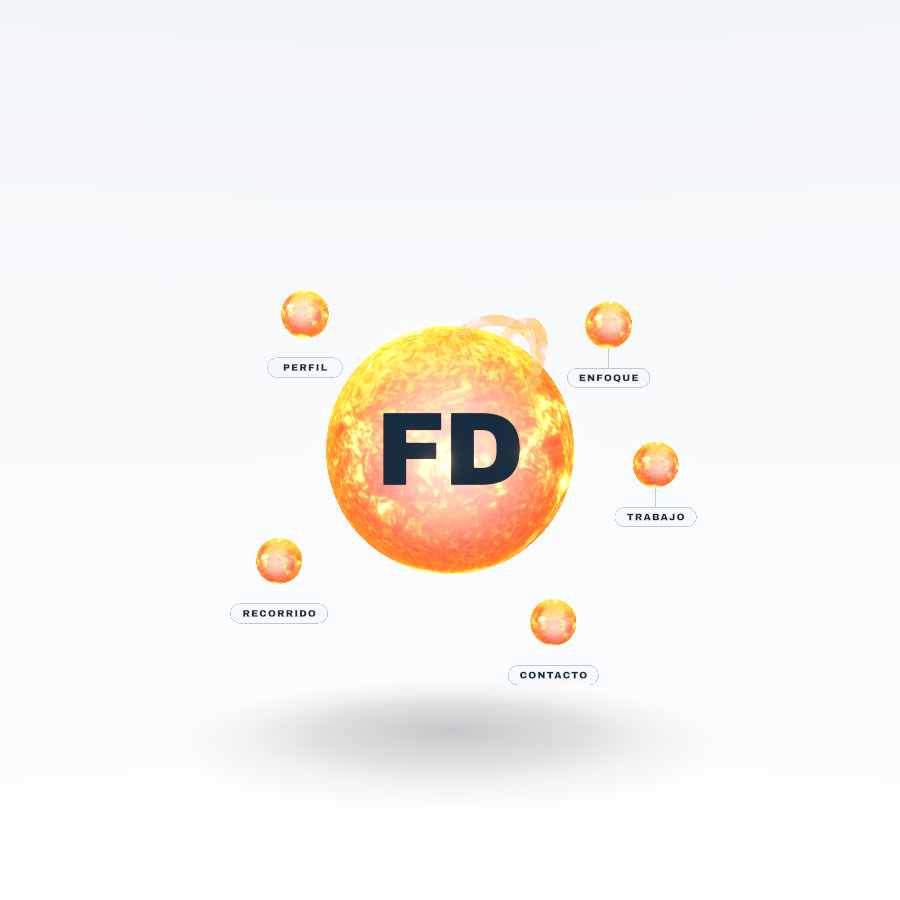
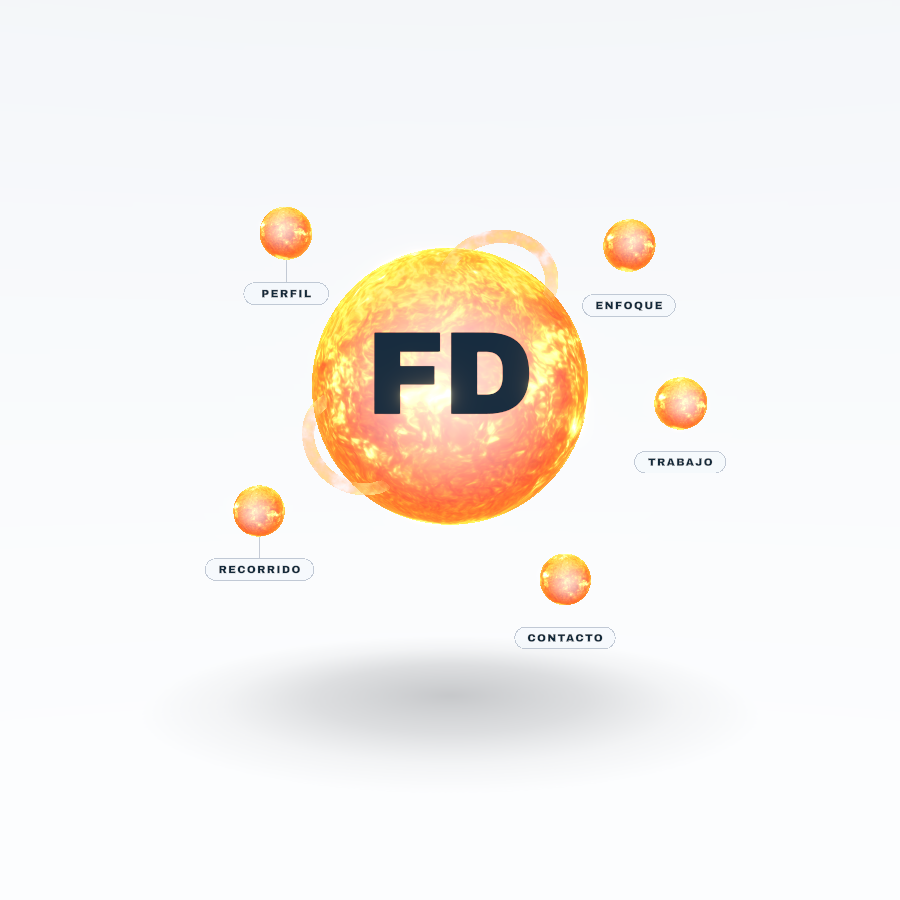
v5.1.0 — Portada centrada + los 5 soles clickeables desde cualquier sección
- Órbita parcial (TILT 0.34): la cámara ya no bucea de lleno al nodo; orbita
  un tercio. Así los 5 soles siguen de frente en toda sección y se pueden
  clickear todos (antes los opuestos quedaban detrás del sol central).
- Elevación (LIFT 0.14): mira por debajo del centro → el modelo sube. Centra
  la portada (saca el espacio vacío de arriba) y despega los soles de abajo
  del nav-bar en los tópicos.
- Pan mayor (0.44) + OVER/CLOSE cercanas: el cúmulo entero queda al lado del
  modelo sin pisar el texto. Umbral front bajado a 0.06.
- Nuevo clickable.mjs: verifica 5/5 soles clickeables (front + sobre el nav)
  en las 5 secciones. Póster regenerado.
Verificado: gate 0, clickable 5/5 x5, touch, anim, smoke, dashcheck, seocheck.

Changed region(s): [[0.28, 0.2178, 0.8089, 0.7778], [0.2489, 0.5289, 0.3422, 0.6844]]

diff --git a/components/three/GraphCanvas.tsx b/components/three/GraphCanvas.tsx
@@ -228,19 +228,33 @@ const SETTLE = 0.00002;
 const SNAP_EPS2 = 0.012 * 0.012;
 /** tan(fov/2) del canvas (fov 40). */
 const TAN_HALF_FOV = Math.tan((40 * Math.PI) / 360);
-/** Cuánto panea la cámara en un tópico (fracción del semiancho visible). El
- * balón queda del lado del modelo SIN salirse de pantalla e invade un poco el
- * lado del texto. */
-const PAN_F = 0.3;
+/** Cuánto panea la cámara en un tópico (fracción del semiancho visible): el
+ * cúmulo entero queda del lado del modelo, sin pisar la columna de texto y con
+ * margen del borde. */
+const PAN_F = 0.44;
+/** ELEVACIÓN del cúmulo (fracción del semialto): mira un poco por DEBAJO del
+ * centro → el modelo sube en pantalla. Centra la portada (saca el espacio vacío
+ * de arriba) y, en los tópicos, despega los soles de abajo del nav-bar. Se
+ * aplica en TODAS las vistas. */
+const LIFT = 0.14;
+/** Órbita PARCIAL hacia el nodo activo (0 = de frente como la portada, 1 =
+ * encarándolo de lleno). Se queda corta a propósito: así los CINCO soles siguen
+ * mirando a cámara en toda sección → se pueden clickear todos desde cualquier
+ * sección (buceando de lleno, los soles opuestos quedaban detrás del sol
+ * central). El realce del sol activo lo dan el crecimiento + el pan + el chip. */
+const TILT = 0.34;
 
-/* Waypoints de la ruta de cámara: 0 = overview (frente, lejos, centrado);
- * k = 1..N = nodo k (su dirección, cerca, paneado a su lado). */
+/* Waypoints de la ruta de cámara: 0 = overview (frente, centrado); k = 1..N =
+ * nodo k (orbitado PARCIALMENTE hacia su dirección, paneado a su lado). */
 function wpDir(k: number, out: THREE.Vector3) {
   if (k <= 0) {
     out.copy(_z);
   } else {
     const d = nodos[k - 1].dir;
-    out.set(d[0], d[1], d[2]).normalize();
+    // Interpola entre el frente (+z) y la dirección del nodo por TILT → órbita
+    // suave que mantiene todos los soles a la vista.
+    out.set(d[0], d[1], d[2]).normalize().multiplyScalar(TILT);
+    out.addScaledVector(_z, 1 - TILT).normalize();
   }
 }
 function wpPan(k: number): number {
@@ -275,10 +289,11 @@ function CameraRig({
   const rBall = radius * S;
   const aspect = size.width / Math.max(1, size.height);
   // Calibrado contra BALL_R exacto. En pantallas ANGOSTAS (mobile) la cámara se
-  // aleja más: el contenedor Y el halo de soles orbitando (r×1.32 + etiquetas)
-  // entran completos en el ancho. dist ≥ span/(0.8·tan(fov/2)·aspect).
-  const OVER = rBall * Math.max(5.0, 4.75 / aspect); // portada: entero, de frente
-  const CLOSE = rBall * Math.max(3.6, 2.6 / aspect); // tópico: grande, sol de frente
+  // aleja más para que el cúmulo entre completo en el ANCHO. Con la órbita
+  // parcial (TILT) el cúmulo se mantiene entero en toda sección, así que OVER y
+  // CLOSE están cerca: el tópico solo se acerca un poco (el sol activo crece).
+  const OVER = rBall * Math.max(4.5, 4.35 / aspect); // portada: entero, centrado
+  const CLOSE = rBall * Math.max(4.2, 3.55 / aspect); // tópico: cúmulo entero al lado del modelo
 
   useFrame((_, delta) => {
     const st = camRef.current;
@@ -306,13 +321,15 @@ function CameraRig({
     }
     _target.copy(_dir).multiplyScalar(dist);
 
-    // Pan lateral: mirar a un costado del balón → el balón queda del lado del
-    // modelo (opuesto al texto) sin mover la escena.
+    // Punto de mira: pan lateral (el cúmulo queda del lado del modelo) + una
+    // ELEVACIÓN constante (mira por debajo del centro → el cúmulo sube: portada
+    // centrada y soles despegados del nav-bar en los tópicos).
     const pan = THREE.MathUtils.lerp(wpPan(iA), wpPan(iB), fs);
     _fwd.copy(_dir).negate();
-    _right.crossVectors(_fwd, _up).normalize();
-    const half = dist * TAN_HALF_FOV * (size.width / size.height);
-    _lookGoal.copy(_right).multiplyScalar(pan * half);
+    _right.crossVectors(_fwd, _up).normalize(); // horizontal (y = 0)
+    const halfV = dist * TAN_HALF_FOV; // semialto visible a esta distancia
+    _lookGoal.copy(_right).multiplyScalar(pan * halfV * aspect);
+    _lookGoal.y -= LIFT * halfV;
 
     if (reduced) {
       camera.position.copy(_target);
@@ -371,7 +388,9 @@ function NodeProjector({
       const d = nodos[i].dir;
       _v.set(d[0], d[1], d[2]).normalize().multiplyScalar(rNode);
       _nd.copy(_v).normalize();
-      const front = _nd.dot(_cam) > 0.12;
+      // Umbral bajo: con la órbita parcial todos los soles miran a cámara en
+      // toda sección → todos clickeables (no solo el activo).
+      const front = _nd.dot(_cam) > 0.06;
       const dist = camera.position.distanceTo(_v);
       _v.project(camera);
       let e = b[i];

diff --git a/DECISIONS.md b/DECISIONS.md
@@ -1128,3 +1128,31 @@ mini-soles, más cerca del centro) y cambiar el fondo por un ESTUDIO BLANCO 3D
 - Verificado: gate 0, touch 14/14, anim (sol vivo), smoke, dashcheck,
   seocheck; capturas de portada + Perfil/Trabajo/Contacto/Recorrido + mobile +
   footer + página de proyecto; póster de fallback regenerado.
+
+### v5.1 — Encuadre: portada centrada + los 5 soles clickeables desde toda sección
+
+Feedback de Felipe: en la portada el sol quedaba bajo (mucho espacio vacío
+arriba); y desde una sección no se podían clickear las otras (los soles de
+abajo se metían bajo el nav-bar, y los del lado opuesto quedaban detrás del
+sol central porque la cámara buceaba de LLENO al nodo). Pidió: subir el modelo
+en TODAS las secciones, con margen en todos lados, y poder clickear los 5.
+
+Tres cambios coordinados en `CameraRig`:
+- **Órbita PARCIAL** (`TILT = 0.34`): la cámara ya no encara de lleno el nodo,
+  solo orbita un tercio hacia él. Así los CINCO soles siguen mirando a cámara
+  en toda sección → todos clickeables (verificado que el dot·cámara de cada sol
+  queda > umbral en las 5 secciones). El realce del sol activo lo dan el
+  crecimiento + el pan + el chip, no un encuadre que esconde a los demás.
+- **ELEVACIÓN** (`LIFT = 0.14`): la cámara mira un poco por debajo del centro
+  → el cúmulo sube en pantalla. Centra la portada (adiós espacio vacío arriba)
+  y, en los tópicos, despega los soles de abajo del nav-bar (que antes los
+  tapaba: el overlay de hit-areas es z-30, debajo del HUD z-40).
+- **PAN mayor** (`PAN_F = 0.44`) + distancias OVER/CLOSE cercanas: con la
+  órbita corta el cúmulo se mantiene entero, así que se lo empuja bien al lado
+  del modelo (sin pisar la columna de texto) y el tópico casi no hace zoom.
+  Umbral `front` bajado a 0.06 por seguridad.
+
+Verificación NUEVA y automática (`clickable.mjs`): navega a cada sección por
+el HUD y comprueba que las 5 hit-areas de sol estén `front` + con
+pointerEvents auto + con el centro POR ENCIMA del nav-bar. Resultado: 5/5 en
+las 5 secciones. Más capturas de portada/secciones/mobile y póster regenerado.
